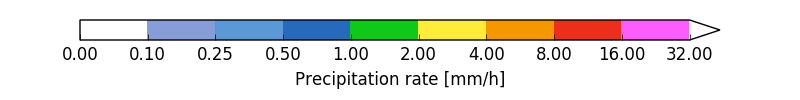
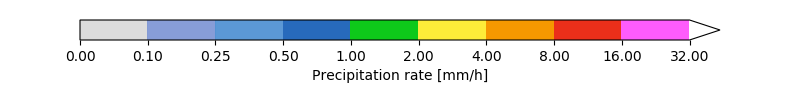
Update precipitation colorbars to accound for new grey tone for zero values

diff --git a/bokeh_apps/plot_sea_model_and_gpm_mpl/model_gpm_control.py b/bokeh_apps/plot_sea_model_and_gpm_mpl/model_gpm_control.py
@@ -81,7 +81,7 @@ class ModelGpmControl(object):
         self.accum_rbg.on_change('active', functools.partial(self.on_accum_change, 1))
         
         self.colorbar_div = bokeh.models.widgets.Div(text="<img src='plot_sea_model_and_gpm_mpl/static/" + \
-                                                          "precipitation_colorbar.png'\>", width=800, height=100)
+                                                          "precip_accum_colorbar.png'\>", width=800, height=100)
         
         # Set layout for widgets
         self.slider_row = bokeh.layouts.row(self.data_time_slider)
